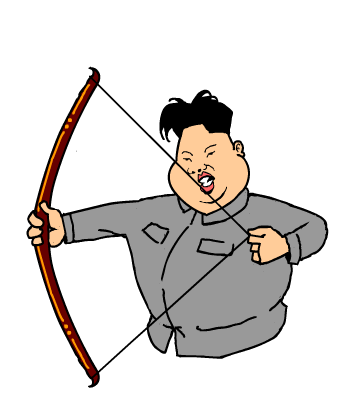
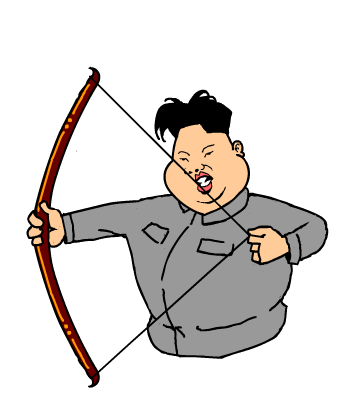
kim

diff --git a/front/src/styles.css b/front/src/styles.css
@@ -152,7 +152,7 @@
     display:block;
     height: 400px;
     width: 350px;
-    transform-origin: 196px 329px;
+    transform-origin: 210px 329px;
 }
 
 .kim1{
